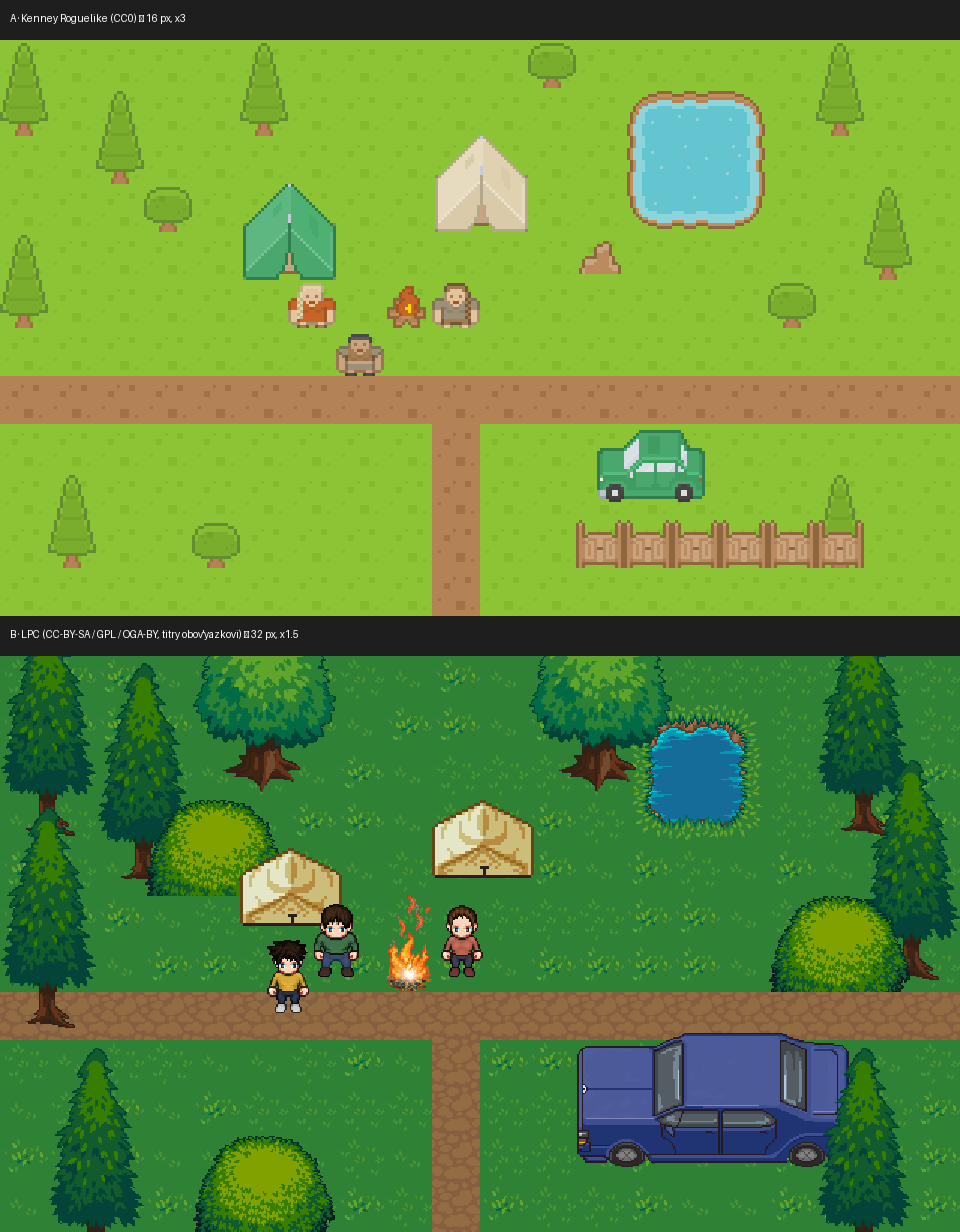
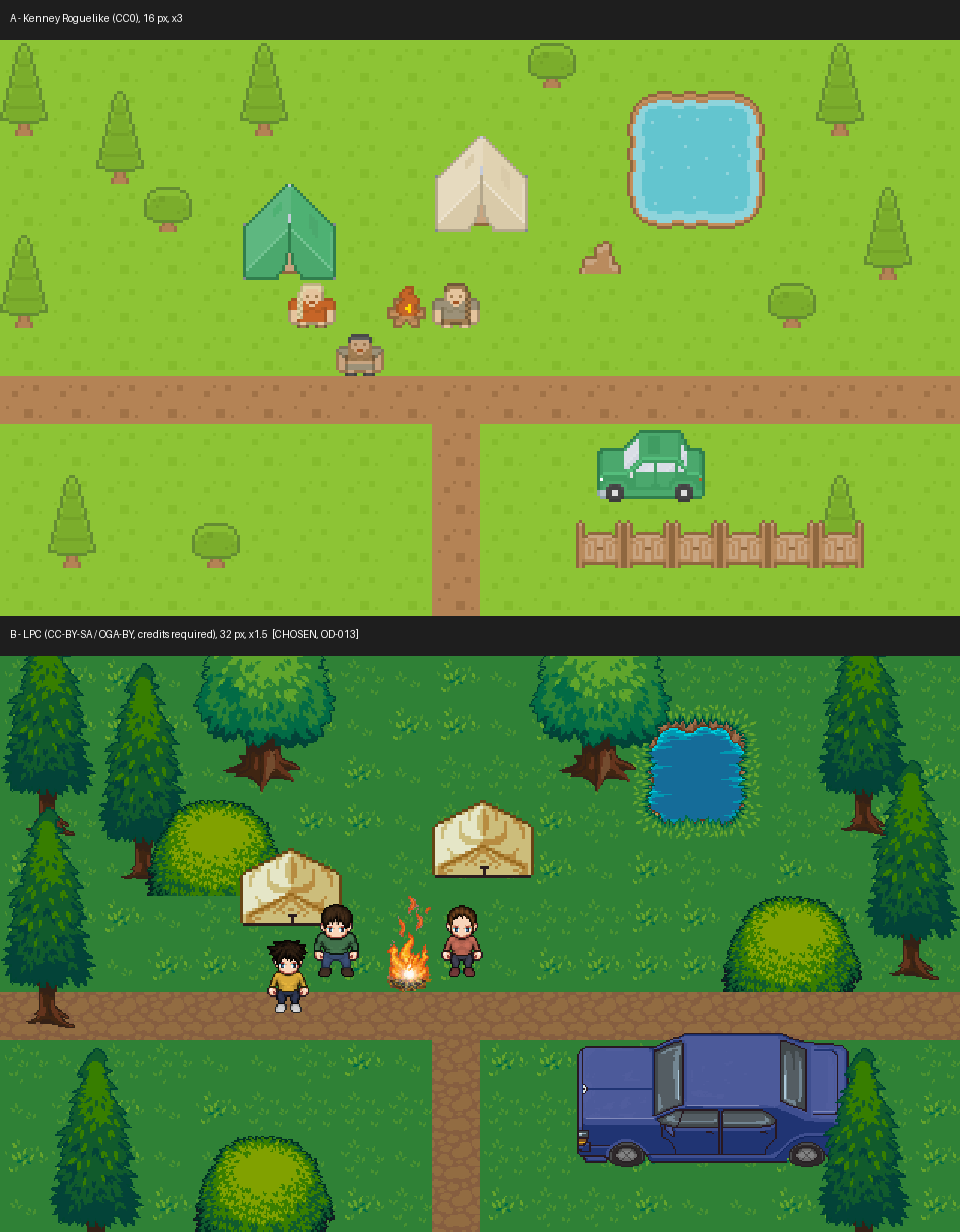
OD-013: основа графіки — LPC (вибір власника); виправлено перекриття куща в пробі
Claude-Session: https://claude.ai/code/session_015BLRSfppqUDk9NHe5Uu4qQ

Changed region(s): [[0.75, 0.7094, 0.9688, 0.8328], [0.0312, 0.4935, 0.3125, 0.5244], [0.0312, 0.0, 0.1875, 0.0308]]

diff --git a/research/art-spike/scene_lpc.py b/research/art-spike/scene_lpc.py
@@ -16,7 +16,7 @@ for x in range(W): im.alpha_composite(dirt,(x*T,7*T))
 for y in range(7,H): im.alpha_composite(dirt,(9*T,y*T))
 im.alpha_composite(A.crop((192,352,288,448)),(13*T,1*T))          # ставок
 pine=A.crop((960,0,1024,160)); oak=A.crop((928,896,1024,1024)); bush=A.crop((768,384,864,448))
-objs=[(pine,0,-1),(pine,2,0),(pine,17,-1),(pine,18,2),(pine,0,3),(pine,1,8),(pine,17,8),(oak,4,-1),(oak,11,-1),(bush,3,3),(bush,16,5),(bush,4,10)]
+objs=[(pine,0,-1),(pine,2,0),(pine,17,-1),(pine,18,2),(pine,0,3),(pine,1,8),(pine,17,8),(oak,4,-1),(oak,11,-1),(bush,3,3),(bush,15,5),(bush,4,10)]
 tent2=tent.resize((tent.width*2,tent.height*2),Image.NEAREST)        # 🔴 прогалина: намет LPC-масштабу не знайдено
 chars=[Image.open(f'{CH}/{n}.png').convert('RGBA').crop((0,128,64,192)) for n in ('george','victoria','matthew')]
 layer=[(o,x*T,y*T) for o,x,y in objs]+[(tent2,5*T,4*T),(tent2,9*T,3*T),(fire,7*T+16,5*T),(car,12*T,8*T-8)]

diff --git a/docs/DECISION_LOG.md b/docs/DECISION_LOG.md
@@ -14,16 +14,17 @@
 |---|---|---|
 | OD-001 | Гра — окремий публічний репозиторій, не монорепо з сайтом | 22.10.2026 |
 | OD-002 | Спільнота, рейтинги, Traveler Miles, мерч, призи — поза першою версією | 22.10.2026 |
-| OD-003 | Графіка ландшафту — Kenney Roguelike/RPG (CC0); ШІ тайлсети не малює | 22.10.2026 |
+| OD-003 | ~~Графіка ландшафту — Kenney Roguelike/RPG (CC0)~~ → **SUPERSEDED OD-013** (LPC). Правило «ШІ тайлсети не малює» діє | 22.10.2026 |
 | OD-004 | Область — ЄС-27 | 24.09.2026 |
 | OD-005 | Прототип на вигаданому регіоні, реальна географія — з MVP (суперечність №1 у GDD) | 22.10.2026 |
 | OD-006 | Еталон якості й вигляду — **Stardew Valley** і **Emberville**: піксель-арт, 2D під нахилом (3/4), без 3D | 22.10.2026 |
-| OD-007 | Основа графіки вибирається **пробою**: одна сцена кемпінгу в Kenney і в LPC, скриншоти → вибір власника. OD-003 діє до вибору | 22.10.2026 |
+| OD-007 | Основа графіки вибирається **пробою**: одна сцена кемпінгу в Kenney і в LPC, скриншоти → вибір власника. ✅ Закрито: OD-013 | 22.10.2026 |
 | OD-008 | Акаунти: у v1 — сейв у браузері + файл/код відновлення; згодом прив'язка до акаунтів сайту (база сайту, через чат Сайту). TD-009 → ACCEPTED з цією умовою | 22.10.2026 |
 | OD-009 | **Телефон і планшет — з першої версії**: дотикове керування й адаптивний інтерфейс закладаються зараз | 22.10.2026 |
 | OD-010 | Бюджет FAL на всю v1 — **до $10** (портрети, іконки, кемпер). Тексти й діалоги пише Claude, $0 | 22.10.2026 |
 | OD-011 | Канонічна родина прикладу — **George 42, Victoria 42, Matthew 15, кішка Mia** (Scottish Fold, 5). Alex/Mira/Leo з GDD не беремо | 22.10.2026 |
 | OD-012 | Петля «від намету до автодому» (робота → зарплата → спорядження → подорож → ремонт → накопичення → кращий транспорт → вживаний кемпер) — **ядро гри**, а не доповнення | 22.10.2026 |
+| OD-013 | Основа графіки — **LPC** (вибір після проби `research/art-spike/`, 22.10.2026). Замінює OD-003. Kenney — лише для сірого прототипу S01–S02. Основа безкоштовна; прогалини (намет LPC, кемпер, масштаб авто) — спершу доведенням наявних спрайтів, FAL лише якщо не вийде (OD-010) | 22.10.2026 |
 
 ---
 

diff --git a/CLAUDE.md b/CLAUDE.md
@@ -103,8 +103,11 @@
 
 ## Графіка — рішення вже прийняте, не переоцінюй його наново
 
-Тайли ландшафту, намети, вогнище, ліс, будинки беруться з **Kenney Roguelike/RPG pack (CC0)**.
-Ліцензії 12 наборів перевірені дослівно: `docs/ART-SOURCES.md`. Реєстр: `docs/LICENSE_REGISTER.md`.
+Основа — **LPC (Liberated Pixel Cup)**: вигляд 3/4, 32 px, персонаж із шарів, ходьба в 4 напрямки.
+Рішення власника OD-013 від 22.10.2026, після проби `research/art-spike/`. Воно замінило Kenney
+(OD-003). Kenney (CC0) лишається лише для сірого прототипу S01–S02.
+Ліцензії LPC — по кожному файлу (CC-BY-SA / OGA-BY / CC0). **Титри обов'язкові.** Як брати й
+перевіряти — скіл `game-art-sources`. Реєстр: `docs/LICENSE_REGISTER.md`.
 
 🔴 **ШІ не малює тайлсети** — заміряно, числа в `brain/Передача/03-zamir-grafiky.md`. Генерація
 доречна для портретів, іконок, концептів і окремих предметів, яких немає в наборі.
@@ -112,7 +115,8 @@
 🔴 **Гармонія вбивається змішуванням наборів.** Новий об'єкт доводиться до палітри, масштабу й
 напрямку світла основного набору — або не додається.
 
-Єдина відома прогалина: **кемпер/караван**, його немає в жодному перевіреному наборі.
+Відомі прогалини LPC: **кемпер/караван**, **намет у стилі LPC**, авто завелике на ~30 %.
+Спершу — доведення наявних спрайтів (0 €), FAL — лише якщо не вийде (до $10, OD-010).
 
 ## Синхронізація
 

diff --git a/brain/_INDEX.md b/brain/_INDEX.md
@@ -29,8 +29,8 @@
 - [Рішення власника](../bridge/decisions/) — діючі обмеження, не історія
 
 ## Відкриті рішення власника
-- 🔴 Графіка: Kenney чи LPC — проба в `research/art-spike/`, вибір власника (GAME-68, OD-007)
-- 🔴 Спринти 2–9 у Jira створює власник (TD-011)
+- ✅ Графіка: **LPC** (OD-013, 22.10.2026)
+- ✅ Спринт: власник переніс усі 69 задач в один відкритий спринт (22.10.2026); черговість — за «Blocks»
 
 ## Стан на 22.10.2026
 - [Передстартовий аналіз](../docs/PRESTART-ANALIZ.md) — що бракувало і що закрито

diff --git a/research/art-spike/README.md b/research/art-spike/README.md
@@ -66,4 +66,4 @@
 
 Kenney лишається для сірого прототипу S01–S02: CC0 дає нуль ризику, поки йде робота над ядром.
 
-🔴 **Вибір — за власником (смак).** Ця проба лише показує обидва варіанти.
+✅ **Вибір власника 22.10.2026: B · LPC** — OD-013 у `docs/DECISION_LOG.md`.
